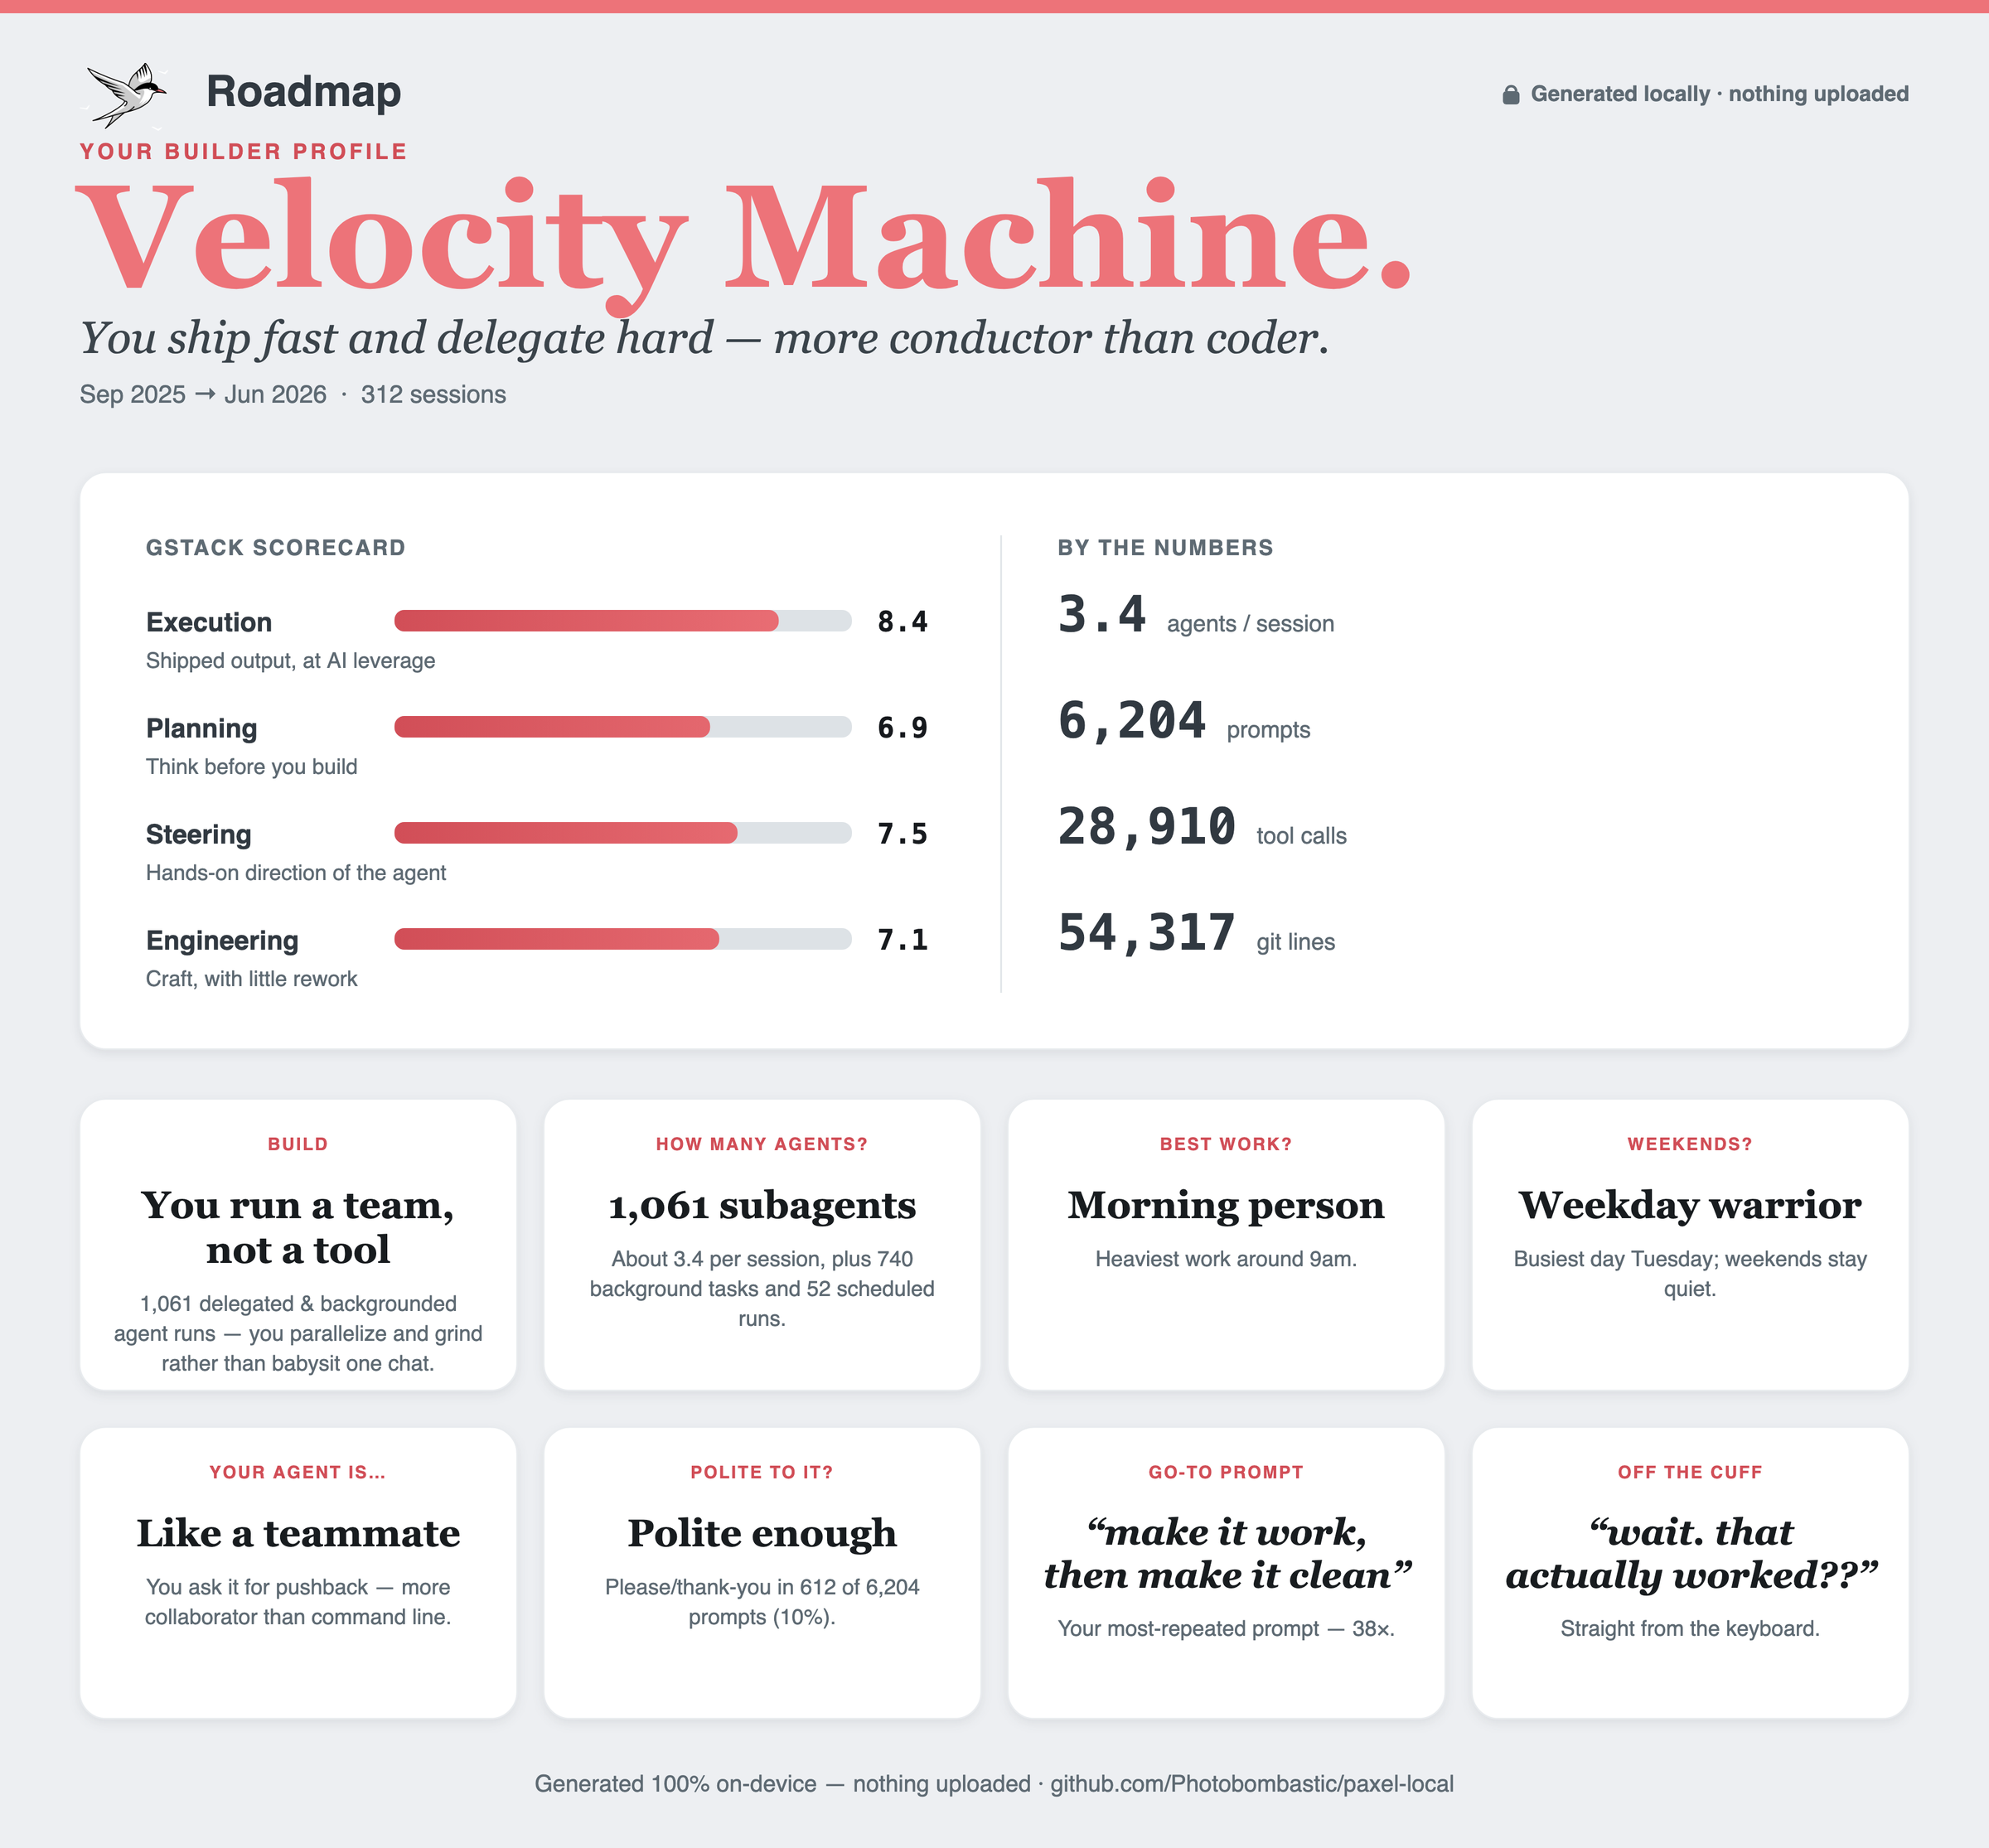
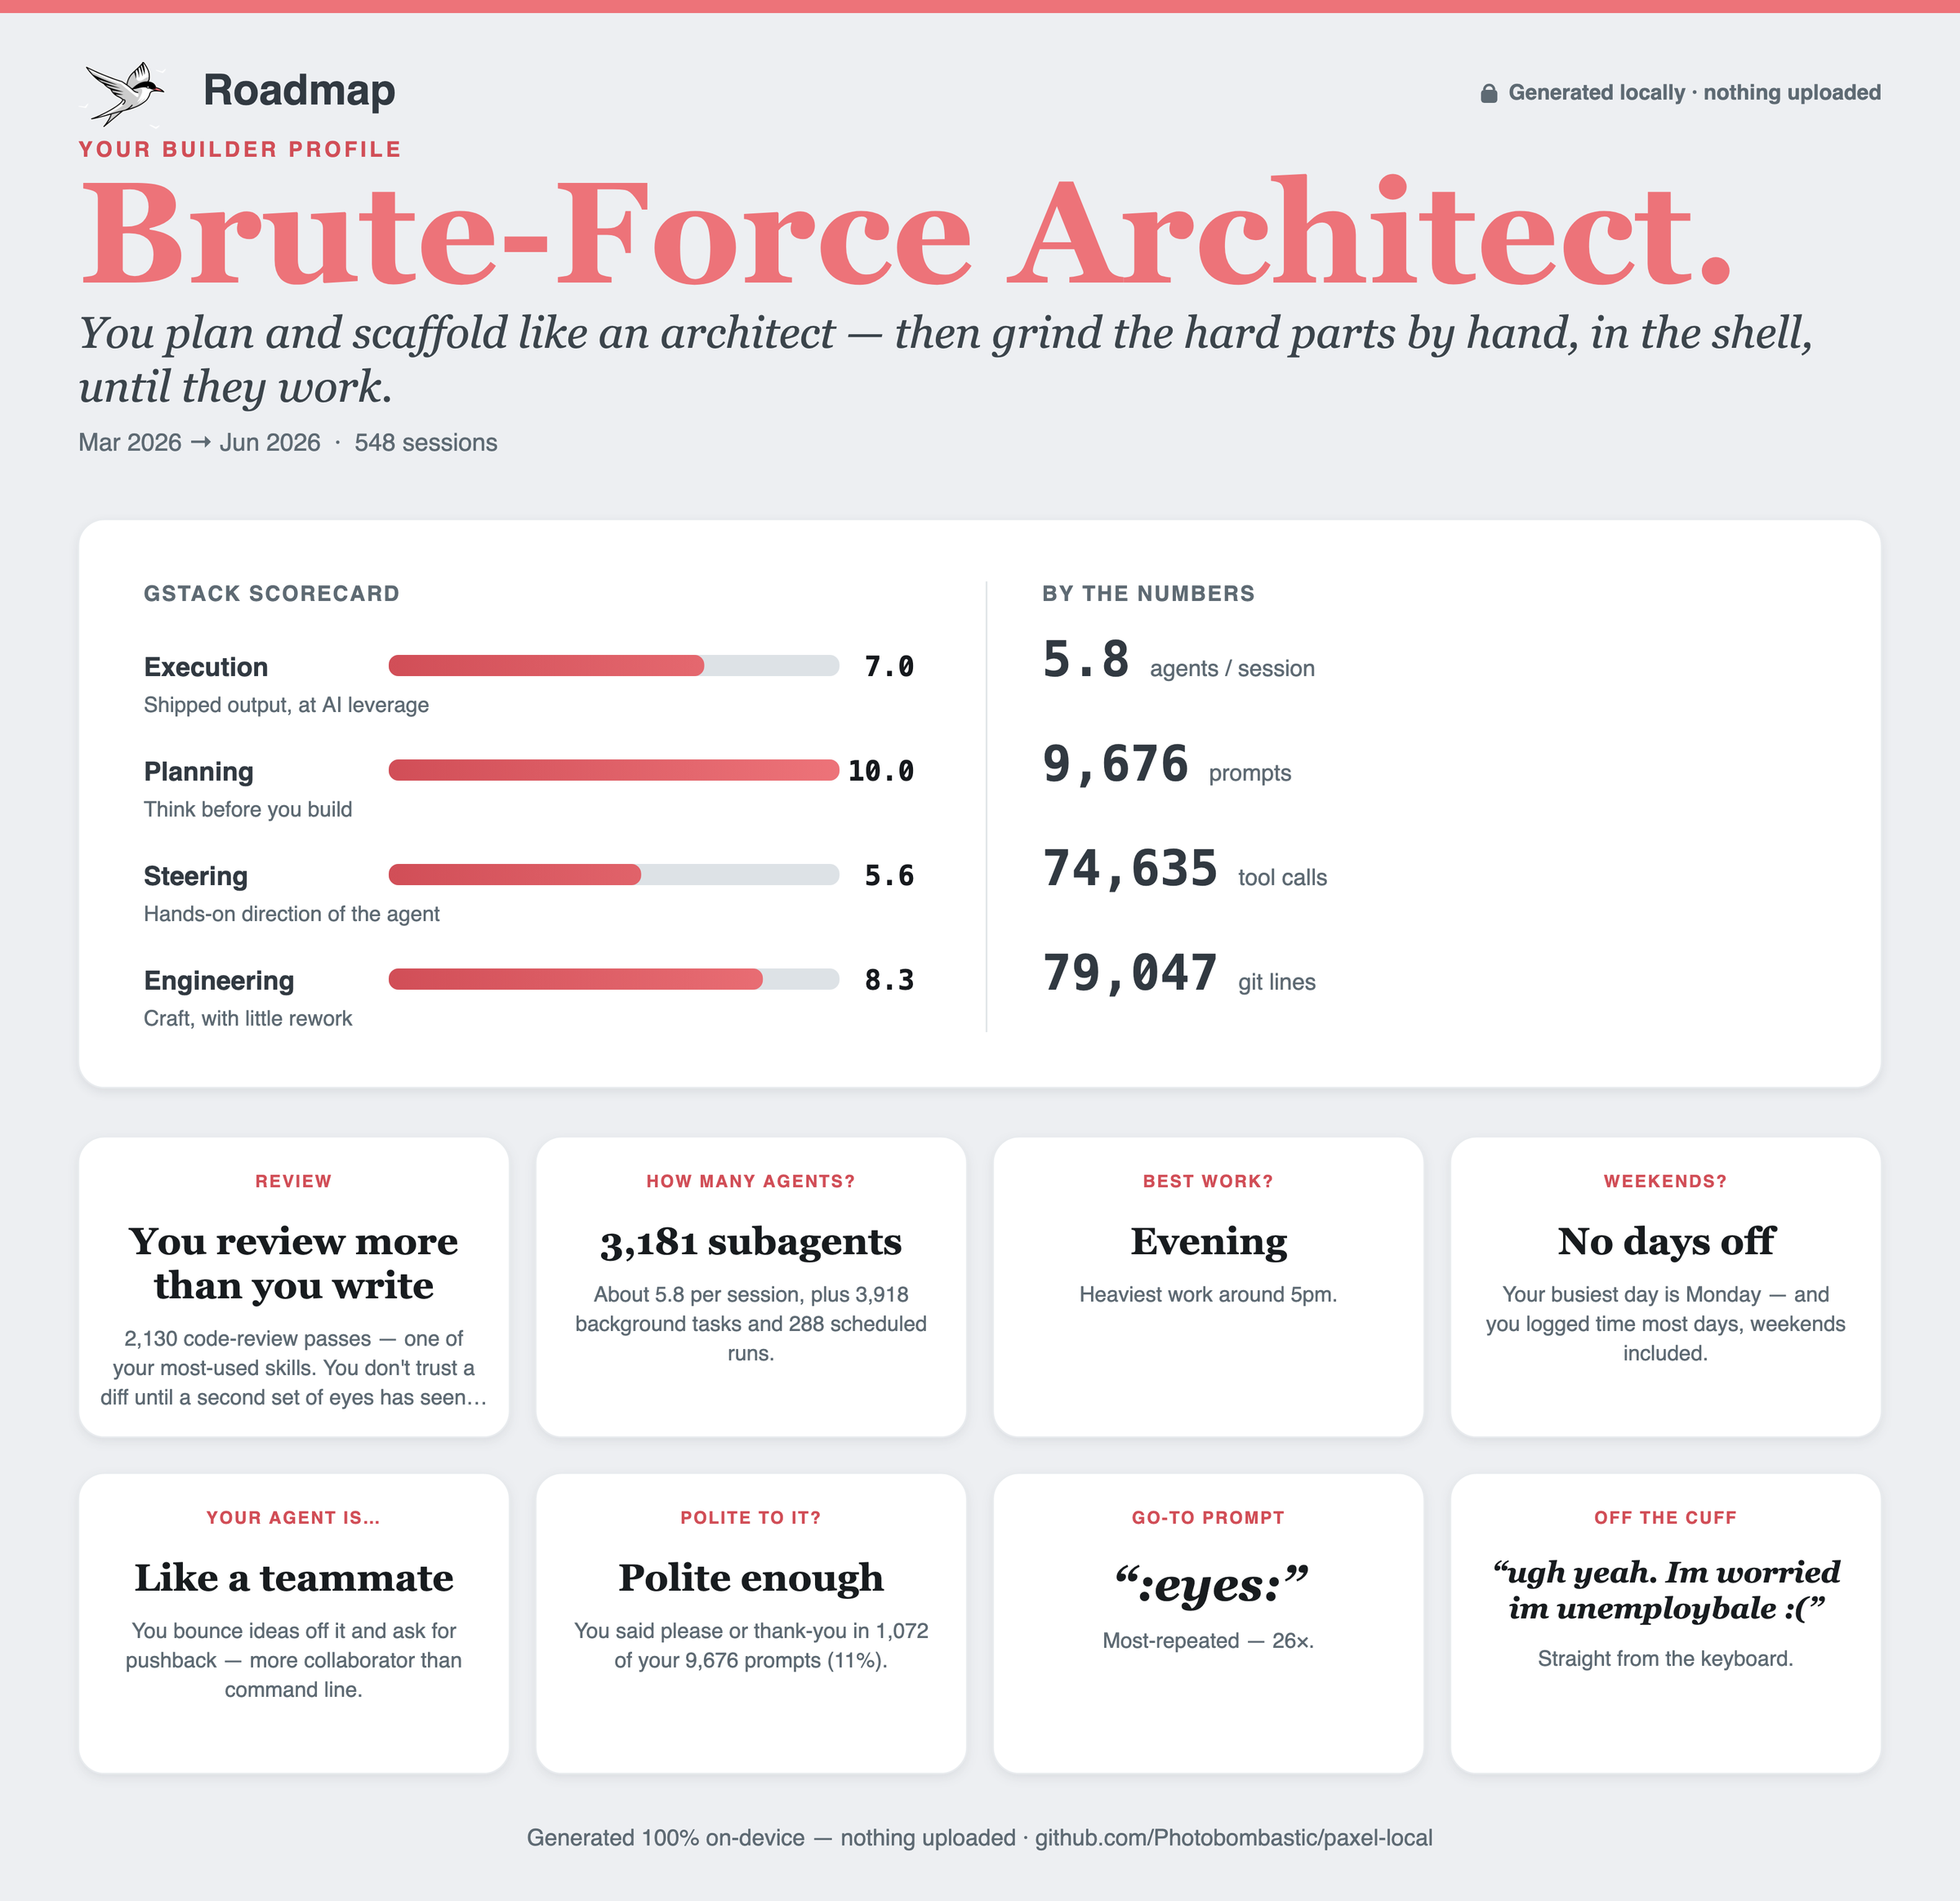
README: use my real builder profile as the hero image
Swap the fictional demo poster for my own real, locally-generated profile
(shared by choice), and update the caption to say so — the author running his
own tool on his own data is the most honest demo of "nothing leaves unless you
decide to share it."

diff --git a/README.md b/README.md
@@ -21,7 +21,8 @@ cd paxel-local && python3 paxel.py     # reads your local transcripts; opens you
 
 Clone, run, done — your profile pops open in the browser: an archetype, a gstack-grounded
 scorecard, your signature moves, and a one-click shareable poster like the one above. Nothing
-leaves the laptop. *(Example above uses fictional data.)*
+leaves the laptop. *(That poster up top is my own real profile — generated locally, public
+only because I chose to share it.)*
 
 ## Is this "exactly" Paxel?
 